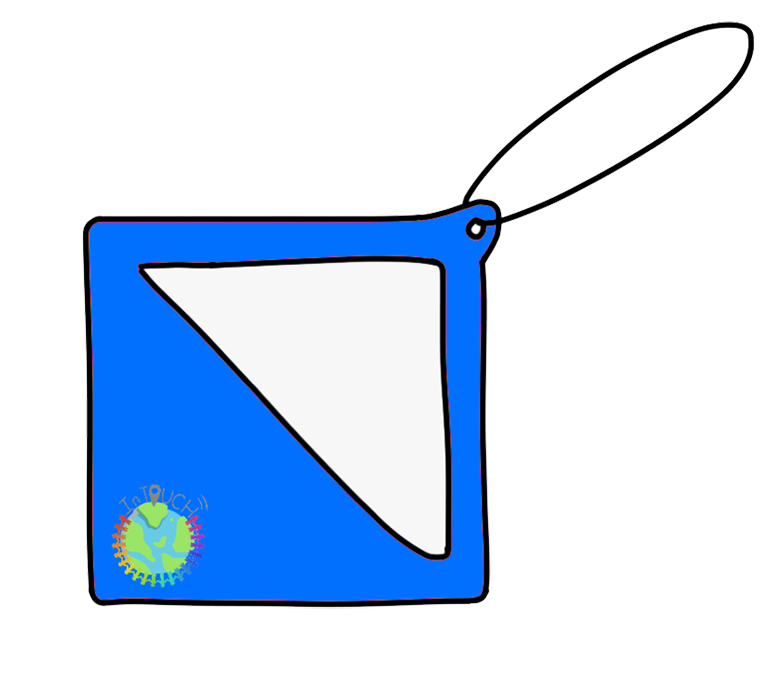
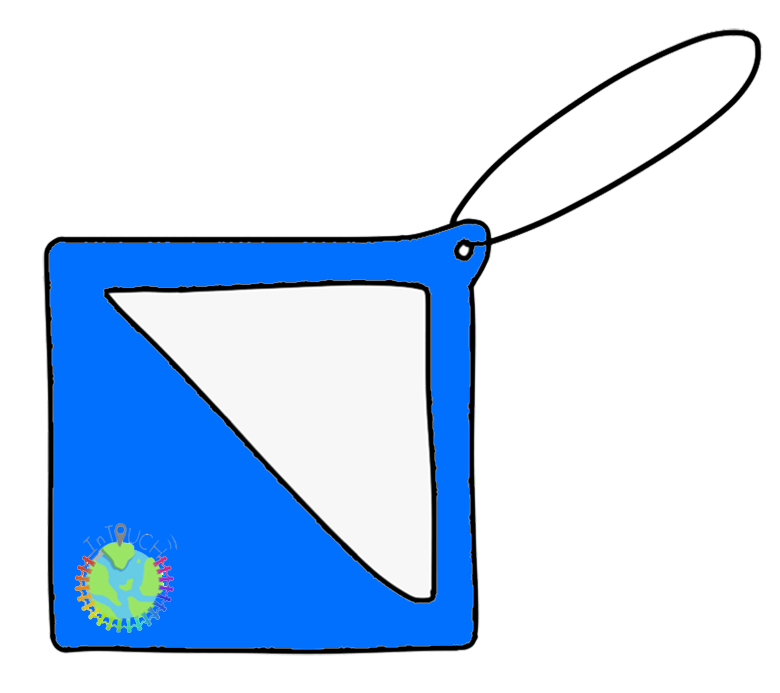
color update

Changed region(s): [[0.0308, 0.0304, 0.9846, 0.9421]]

diff --git a/css/shopselect.css b/css/shopselect.css
@@ -154,23 +154,43 @@ img {
 }
 
 .color-black {
-    background-color: #242424;
+    background-color: #343434;
 }
 
 .color-blue {
-    background-color: #085ea0;
+    background-color: #0170ff;
 }
 
 .color-yellow {
-    background-color: #c0b50d;
+    background-color: #fff756;
 }
 
 .color-red {
-    background-color: #8b0516;
+    background-color: #ff0101;
 }
 
 .color-white {
     background-color: #ededed;
+}
+
+.color-sky {
+    background-color: #55d5ff;
+}
+
+.color-purple {
+    background-color: #d906ff;
+}
+
+.color-orange {
+    background-color: #ffa756;
+}
+
+.color-pink {
+    background-color: #ff88ee;
+}
+
+.color-green {
+    background-color: #70ff56;
 }
 
 .color:hover {

diff --git a/intouch-fam-pack.html b/intouch-fam-pack.html
@@ -38,6 +38,11 @@
                             <div class="color color-yellow"></div>
                             <div class="color color-blue"></div>
                             <div class="color color-red"></div>
+                            <div class="color color-sky"></div>
+                            <div class="color color-purple"></div>
+                            <div class="color color-orange"></div>
+                            <div class="color color-pink"></div>
+                            <div class="color color-green"></div>
                         </div>
                     </div>
                 </div>
